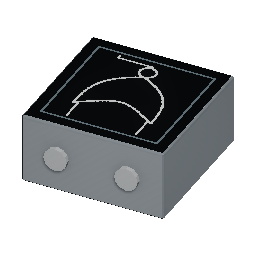
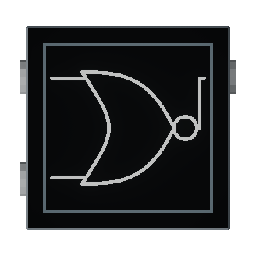
Show inventory block symbols from above
Keep the wire image angled and orient gate outputs to the right for readability.

diff --git a/Assets/Editor/InventoryBlockImageBuilder.cs b/Assets/Editor/InventoryBlockImageBuilder.cs
@@ -36,7 +36,7 @@ public static class InventoryBlockImageBuilder
         InstallImages();
         AssetDatabase.SaveAssets();
         CapturePreview();
-        Debug.Log("INVENTORY_IMAGES_BUILD_PASS: 13 catalog entries and isometric sprites, 23 empty slots.");
+        Debug.Log("INVENTORY_IMAGES_BUILD_PASS: 13 catalog entries, top-down block sprites and an angled wire sprite, 23 empty slots.");
     }
 
     static void GenerateIcons()
@@ -78,8 +78,17 @@ public static class InventoryBlockImageBuilder
                     var renderers=model.GetComponentsInChildren<Renderer>();
                     var bounds=renderers[0].bounds;
                     foreach(var renderer in renderers) bounds.Encapsulate(renderer.bounds);
-                    camera.transform.position=bounds.center+new Vector3(4,6,-8).normalized*8;
-                    camera.transform.LookAt(bounds.center);
+                    if(modelName=="wire_straight_off")
+                    {
+                        camera.transform.position=bounds.center+new Vector3(4,6,-8).normalized*8;
+                        camera.transform.LookAt(bounds.center);
+                    }
+                    else
+                    {
+                        // Put the +Z output on the right so gate symbols read left to right.
+                        camera.transform.position=bounds.center+Vector3.up*8;
+                        camera.transform.rotation=Quaternion.LookRotation(Vector3.down,Vector3.left);
+                    }
                     float size=0;
                     for(int x=-1;x<=1;x+=2) for(int y=-1;y<=1;y+=2) for(int z=-1;z<=1;z+=2)
                     {
@@ -178,6 +187,14 @@ public static class InventoryBlockImageBuilder
     public static void CapturePreview() => InventoryGridBuilder.CaptureTo("art/inventory-images-review/inventory-images.png");
 
     public static void CaptureAndBuildMac() { CapturePreview(); BuildMac(); }
+
+    public static void RefreshIconsAndBuildMac()
+    {
+        GenerateIcons();
+        AssetDatabase.SaveAssets();
+        CapturePreview();
+        BuildMac();
+    }
 
     public static void BuildMac()
     {

diff --git a/art/inventory-images-review/README.md b/art/inventory-images-review/README.md
@@ -10,7 +10,7 @@ There is one entry per type. Constant Signal uses the high-source prefab by defa
 
 ## Images and binding
 
-- `InventoryBlockImageBuilder` renders transparent 256×256 PNGs from the existing models. The basic building block uses its actual gameplay prefab. Lighting and grading match the model-review settings.
+- `InventoryBlockImageBuilder` renders transparent 256×256 PNGs from the existing models. Blocks use straight top-down views of their symbol faces, with gate outputs pointing right for familiar left-to-right reading. The wire retains its angled view. The basic building block uses its actual gameplay prefab. Lighting and grading match the model-review settings.
 - `Assets/UI/InventoryIcons/` contains imported Sprite assets. Images are baked in the Editor and referenced by the catalog; gameplay does not create thumbnail cameras or render models for each UI slot.
 - `Assets/Inventory/DefaultInventoryCatalog.asset` connects those images to actual gameplay prefabs.
 - `InventoryGrid.RefreshImages` binds catalog entries on enable. `InventorySlotImage.SetItem` changes or clears a slot while preserving its square frame and aspect ratio. Missing entries disable the icon and keep the empty slot visible.
@@ -25,4 +25,4 @@ Unity 6000.3.8f1 on macOS:
 - EditMode: **41 passed, 20 skipped, 0 failed**. Existing Windows-native tests are skipped on macOS. Tests cover all 13 types, unique IDs/images, valid gameplay prefabs, all eight gates, alpha margins, absence of error-shader pixels, white gate symbols and replacing/clearing slot content.
 - PlayMode: **27 passed, 2 skipped, 0 failed**. Existing pause-menu settings tests remain skipped. Tests cover the live 13/23 slot binding, image/prefab correspondence, preserved layout, refresh/reopen behavior, existing inventory input handling and gameplay tests, and the absence of thumbnail cameras in gameplay.
 - The macOS development player build succeeded. Local output: `Builds/InventoryImages/SiliconSandbox.app` (ignored). MainMenu loads the integrated gameplay scene containing the catalog and images.
-- The Unity screenshot shows the populated UI. The temporary camera-space capture disables post-processing on the UI so already-graded sprites are not graded twice; the real overlay UI is rendered after gameplay post-processing.
+- The Unity screenshot shows the populated UI with top-down block images and the angled wire image. The temporary camera-space capture disables post-processing on the UI so already-graded sprites are not graded twice; the real overlay UI is rendered after gameplay post-processing.
